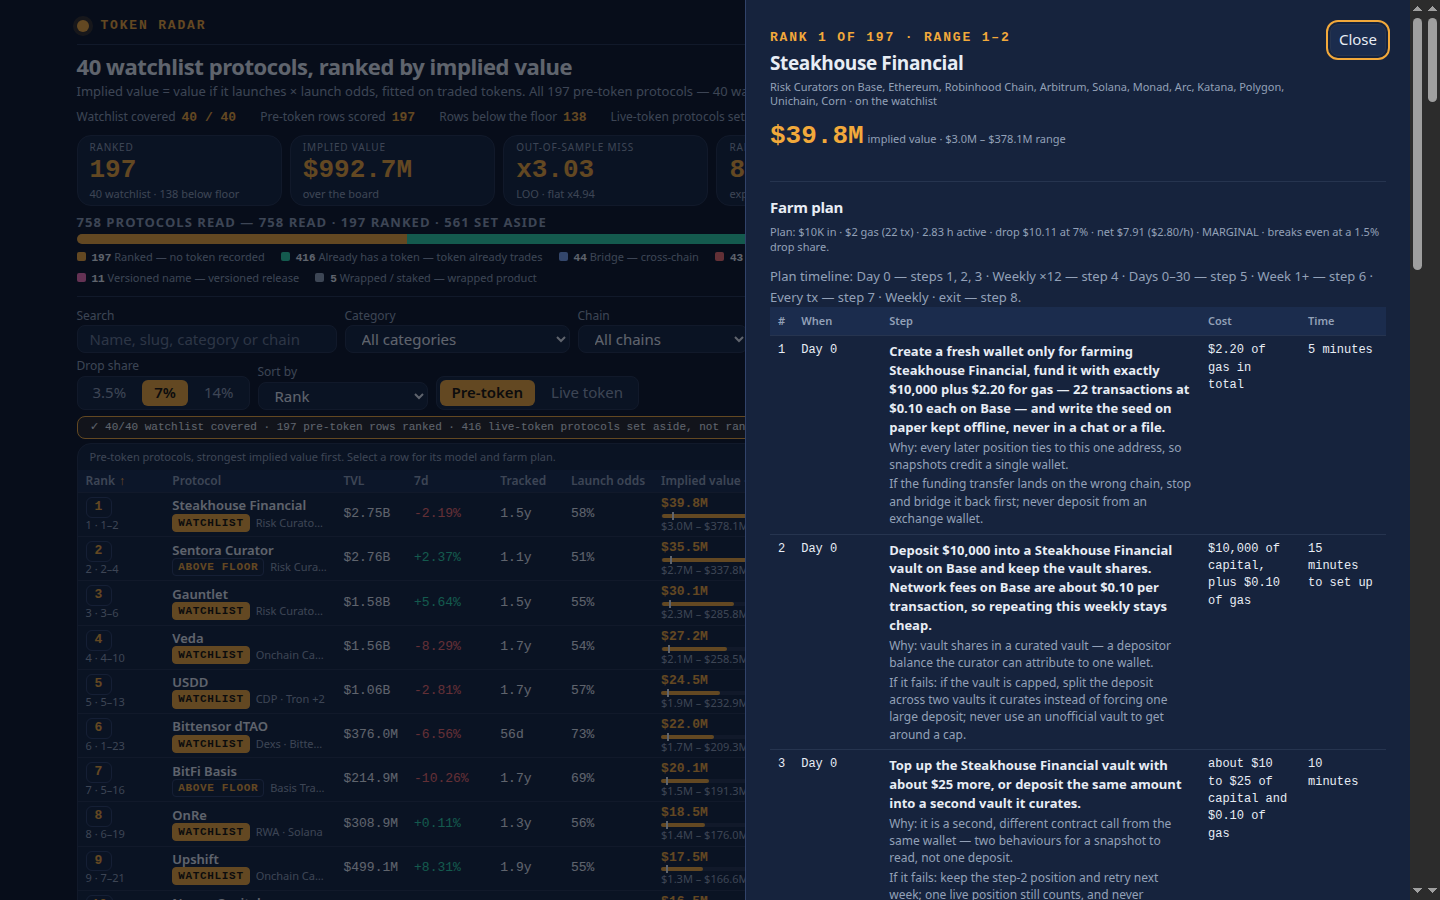
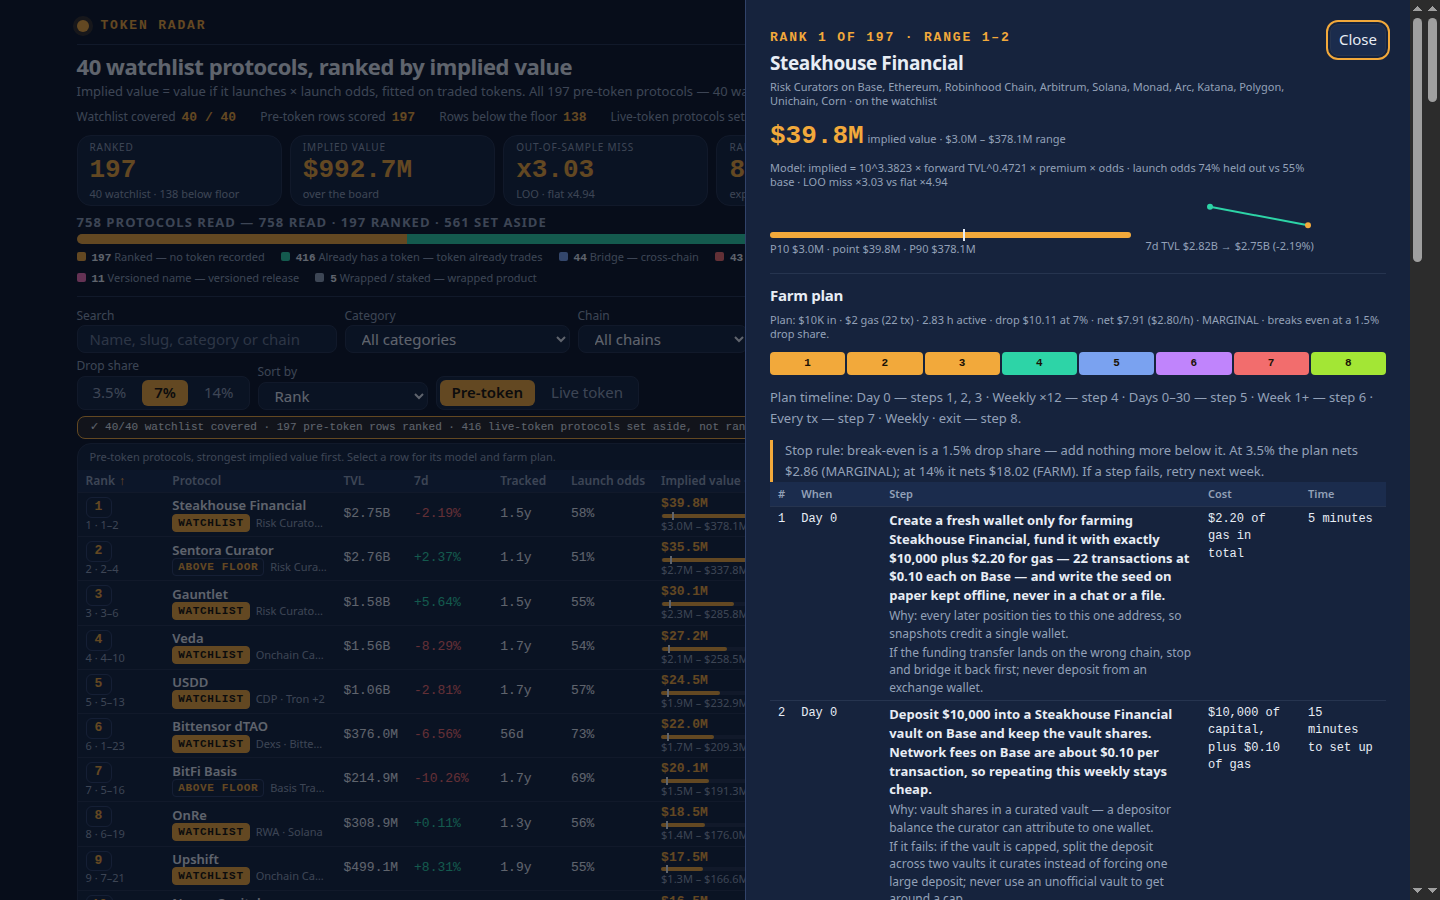
token-radar-01: comps-10 — detail-view farm depth (timeline strip, stop rule, model + P10-P90 bar + 7d spark in shot 2); 198th row verified dead, model unchanged

diff --git a/dashboard/app.js b/dashboard/app.js
@@ -386,6 +386,11 @@ var stepsHtml = '<table class="farm"><thead><tr><th scope="col">#</th><th scope=
 var tl = [];
 (row.farm_steps || []).forEach(function (st, i) { var pp = parseStep(st); if (!pp) return; var w = whenOf(pp.action, row.hold_days || 30); var g = tl[tl.length - 1]; if (g && g[0] === w) g[1].push(i + 1); else tl.push([w, [i + 1]]); });
 var timeline = '<p class="why">Plan timeline: ' + tl.map(function (g) { return g[0] + ' — step' + (g[1].length > 1 ? 's ' : ' ') + g[1].join(', '); }).join(' · ') + '.</p>';
+function tlc(w){if(w==='Weekly · exit')return '#a3e635';if(w.indexOf('Weekly')===0)return '#2dd4a7';if(w.indexOf('Day 0')===0)return '#f2a93b';if(w.indexOf('Days')===0)return '#7aa2f0';if(w==='Week 1+')return '#c084fc';if(w==='Every tx')return '#f26d6d';return '#94a3b8';}
+var strip='<div class="tl" aria-hidden="true">'+(row.farm_steps||[]).map(function(st,i){var pp=parseStep(st);var w=pp?whenOf(pp.action,row.hold_days||30):'Day 0';return '<i style="background:'+tlc(w)+'">'+(i+1)+'</i>';}).join('')+'</div>';
+var n35=netAt(row,row.plan_size_usd||1000,0.035),v35=verdictAt(row,row.plan_size_usd||1000,0.035);
+var n14=netAt(row,row.plan_size_usd||1000,0.14),v14=verdictAt(row,row.plan_size_usd||1000,0.14);
+var stop='<p class="caveat">Stop rule: break-even is a '+(beShare*100).toFixed(1)+'% drop share — add nothing more below it. At 3.5% the plan nets '+fmtNet(n35)+' ('+v35+'); at 14% it nets '+fmtNet(n14)+' ('+v14+'). If a step fails, retry next week.</p>';
 var comps = row.comparables || [];
 var compHtml = comps.length ? '<table class="mini comp"><thead><tr><th scope="col">Token that trades</th><th scope="col">TVL</th><th scope="col">MCAP</th><th scope="col">x TVL</th><th scope="col">Applied here</th></tr></thead><tbody>' +
 comps.map(function (p) { return '<tr><td>' + esc(p.name) + '</td><td class="num">' + esc(fmtUsd(p.tvl_usd)) + '</td><td class="num">' + esc(fmtUsd(p.mcap_usd)) + '</td><td class="num">' + esc(fmtMult(p.multiple)) + '</td><td class="num">' + esc(fmtUsd(p.applied_usd)) + '</td></tr>'; }).join('') + '</tbody></table>'
@@ -408,13 +413,26 @@ var chainRows =
 '<div><span>Category premium</span><b class="num">x ' + esc(fmtMult(c.premium)) + '</b></div>' +
 '<div><span>Value if it launches</span><b class="num">' + esc(fmtUsd(c.val)) + '</b></div>' +
 '<div><span>Launch odds</span><b class="num">x ' + esc(fmtPct100(c.odds)) + '</b></div>';
+var V=DATA.validation||{};
+var mod='';
+if(V.loo&&V.launch_odds&&V.flat_baseline)mod='<p class="sub">Model: implied = 10^'+M.curve_a+' × forward TVL^'+M.curve_b+' × premium × odds · launch odds '+Math.round(V.launch_odds.accuracy_pct)+'% held out vs '+Math.round(V.launch_odds.base_rate_pct)+'% base · LOO miss ×'+V.loo.median_miss.toFixed(2)+' vs flat ×'+V.flat_baseline.median_miss.toFixed(2)+'</p>';
+var lo=row.value_low_usd,hi=row.value_high_usd;
+var lp=function(v){var a=Math.log10(Math.max(1,lo)),b=Math.log10(Math.max(1,hi));return Math.max(0,Math.min(100,(Math.log10(Math.max(1,v))-a)/Math.max(1e-9,b-a)*100));};
+var rng='<div class="rng"><span class="rangebar" aria-hidden="true"><i style="left:0%;width:100%"></i><b style="left:'+lp(row.implied_value_usd).toFixed(1)+'%"></b></span><div class="sub">P10 '+esc(fmtUsd(lo))+' · point '+esc(fmtUsd(row.implied_value_usd))+' · P90 '+esc(fmtUsd(hi))+'</div></div>';
+var chg=row.change_7d,prev=(chg===null||chg===undefined)?null:row.tvl_usd/(1+chg/100),spark='';
+if(prev!==null&&isFinite(prev)&&prev>0){
+var mn=Math.min(prev,row.tvl_usd),mx=Math.max(prev,row.tvl_usd),pd=(mx-mn)*0.2+1;
+var sy=function(v){return (30-(v-(mn-pd))/((mx-mn)+2*pd)*26).toFixed(1);};
+spark='<div class="spark"><svg width="110" height="34" viewBox="0 0 110 34" role="img" aria-label="TVL 7 days ago to now"><polyline points="6,'+sy(prev)+' 104,'+sy(row.tvl_usd)+'" fill="none" stroke="#2dd4a7" stroke-width="2"/><circle cx="6" cy="'+sy(prev)+'" r="3" fill="#2dd4a7"/><circle cx="104" cy="'+sy(row.tvl_usd)+'" r="3" fill="#f2a93b"/></svg><span class="sub">7d TVL '+esc(fmtUsd(prev))+' → '+esc(fmtUsd(row.tvl_usd))+' ('+esc(fmtPct(chg))+')</span></div>';
+}
+var duo='<div class="duo">'+rng+spark+'</div>';
 dialog.innerHTML =
 '<div class="detail-head"><div><span class="brand-name">RANK ' + row.rank + ' OF ' + DATA.board_size + (row.rank_low !== undefined ? ' · RANGE ' + row.rank_low + '–' + row.rank_high : '') + '</span>' +
 '<h2 id="detailTitle">' + esc(row.name) + '</h2>' +
 '<p class="sub">' + esc(row.category || 'Other') + ' on ' + esc(chainsOf(row)) + (isWatch(row) ? ' · on the watchlist' : (isAboveFloor(row) ? ' · above the floor' : ' · below the floor')) + '</p>' +
-'<p style="margin-top:8px"><span style="font-size:26px;color:var(--amber);font-family:var(--font-num);font-weight:600">' + esc(fmtUsd(row.implied_value_usd)) + '</span> <span class="sub">implied value · ' + esc(fmtUsd(row.value_low_usd)) + ' – ' + esc(fmtUsd(row.value_high_usd)) + ' range</span></p></div>' +
+'<p style="margin-top:8px"><span style="font-size:26px;color:var(--amber);font-family:var(--font-num);font-weight:600">' + esc(fmtUsd(row.implied_value_usd)) + '</span> <span class="sub">implied value · ' + esc(fmtUsd(row.value_low_usd)) + ' – ' + esc(fmtUsd(row.value_high_usd)) + ' range</span></p>' + mod + duo + '</div>' +
 '<button class="close" type="button" aria-label="Close details">Close</button></div>' +
-'<section class="detail-section"><h3>Farm plan</h3>' + planSum + timeline + stepsHtml +
+'<section class="detail-section"><h3>Farm plan</h3>' + planSum + strip + timeline + stop + stepsHtml +
 '<div class="arith"><div><span>At risk</span><b>' + esc(fmtUsd(dep)) + '</b></div><div><span>Fees</span><b>' + esc(fmtUsd(row.fees_usd)) + '</b></div><div><span>Your time</span><b>' + (row.time_hours !== undefined ? row.time_hours + ' h' : 'n/a') + '</b></div><div><span>Slice if it launches</span><b>' + esc(fmtNet(slice)) + '</b></div><div><span>Fees / slice</span><b>' + (be !== null ? Math.round(be * 100) + '%' : 'n/a') + '</b></div><div><span>Net per hour</span><b>' + (nph !== null ? esc(fmtNet(nph)) + '/h' : 'n/a') + '</b></div></div>' +
 '<p class="sub" style="margin-top:8px">Slice if launch = value if it launches x drop share x deposit / TVL. Break-even odds = fees / slice. Net per hour = net at the current selection / time.</p></section>' +
 '<section class="detail-section"><h3>How the figure is made</h3><div class="chain">' + chainRows +

diff --git a/dashboard/app.css b/dashboard/app.css
@@ -91,7 +91,7 @@ td:first-child .sub{white-space:nowrap}
 .close{flex:none;min-width:32px;min-height:32px;padding:0 var(--s2);white-space:nowrap;border:1px solid var(--border);border-radius:var(--r1);background:var(--surface2)}
 .detail h2{margin-top:var(--s1)}
 .detail .sub{margin-top:var(--s1)}
-.detail-section{margin-top:var(--s5);padding-top:var(--s4);border-top:1px solid var(--border)}
+.detail-section{margin-top:var(--s4);padding-top:var(--s3);border-top:1px solid var(--border)}
 .detail-section h3{margin-bottom:var(--s2)}
 .check{margin-top:var(--s3);font-size:13px;line-height:1.6}
 .check.ok{color:var(--teal)}
@@ -102,7 +102,7 @@ td:first-child .sub{white-space:nowrap}
 .steps li{padding-left:var(--s1)}
 .steps b{display:block;font-weight:500}
 .farm{width:100%;font-size:13px;line-height:1.45;border-collapse:collapse}
-.farm th,.farm td{padding:6px 8px;border-bottom:1px solid var(--border);vertical-align:top;text-align:left}
+.farm th,.farm td{padding:4px 8px;border-bottom:1px solid var(--border);vertical-align:top;text-align:left}
 .farm thead th{position:static;color:var(--muted);font-size:11px}
 .farm td.num{white-space:normal;font-family:var(--font-num);font-size:12px}
 .farm td:first-child{white-space:nowrap}
@@ -170,6 +170,14 @@ td:first-child .sub{white-space:nowrap}
 .rangebar{width:96px;height:4px;border-radius:3px;background:var(--border);position:relative;overflow:visible}
 .rangebar i{position:absolute;top:0;bottom:0;background:var(--amber);border-radius:3px}
 .rangebar b{position:absolute;top:-2px;width:2px;height:8px;background:var(--ink)}
+.tl{display:flex;gap:2px;margin:10px 0 0}
+.tl i{flex:1;text-align:center;font-style:normal;font-family:var(--font-num);font-size:11px;font-weight:600;color:var(--amber-ink);border-radius:4px;padding:3px 0}
+.duo{display:flex;gap:14px;align-items:flex-end;margin-top:10px}
+.duo .rng{flex:1;min-width:0}
+.duo .rangebar{display:block;width:100%;height:6px}
+.duo .rangebar b{top:-3px;height:12px}
+.spark{flex:none;text-align:right}
+.spark svg{display:block;margin-left:auto}
 .detail{width:min(680px,96vw)}
 .vt{width:100%;font-size:13px;border-collapse:collapse}
 .vt th,.vt td{padding:var(--s2);border:1px solid var(--border);text-align:right}

diff --git a/README.md b/README.md
@@ -6,9 +6,9 @@
 
 A token launch radar: it reads a sealed DefiLlama snapshot of 758 protocols and writes a web dashboard that ranks the 197 pre-token, standalone protocols by what their launch would be worth, each with a costed farm plan and a FARM / MARGINAL / SKIP verdict.
 
-## The model ("comps-9" — comps-8 + bigger validation numbers in shot 1: 26px KPI values, fitted size-curve formula box leading the validation panel, 21px validation tiles)
+## The model ("comps-10" — comps-9 + detail-view farm depth in shot 2: visual 8-step timeline strip, break-even stop rule, model line + log-scale P10–P90 bar + 7-day TVL spark in the detail head; 198th-row angle verified dead, board stays 197)
 
-comps-9 keeps the comps-8 model and layout unchanged and makes the validation figures as prominent in the screenshots as rank #1's are in its: the six KPI numbers (197, $992.7M, ×3.03, 80%, 74%, 59) are now 26px, the validation panel opens with the fitted size curve "10^3.3823 × forward TVL^0.4721 — fitted on 119 traded tokens", and its six holdout tiles are 21px. The filled amber coverage ribbon ("40/40 watchlist covered · 197 pre-token rows ranked · 416 live-token protocols set aside, not ranked"), filled WATCHLIST badges, and one-line "Plan timeline" in each detail-view farm plan are kept from comps-8. See MODEL_NOTES.md.
+comps-10 keeps the comps-9 model and layout unchanged and makes the farm plan visible at a glance in the detail view: the plan now opens with a colour-coded timeline strip (one numbered cell per step) above the "Plan timeline" legend, a stop rule derived from the row's own verdict table (break-even drop share, net at 3.5% and 14%), and the detail head repeats the model ("implied = 10^3.3823 × forward TVL^0.4721 × premium × odds · launch odds 74% held out vs 55% base · LOO miss ×3.03 vs flat ×4.94") beside a log-scale P10–P90 range bar and a 7-day TVL spark (TVL 7 days ago → today, from the snapshot's own 7-day change). The 198th row was checked and does not exist under our own rules: all 145 excluded pre-token protocols fail at least one rule (37 bridge incl. circle-gateway, 29 liquid-staking, 37 CEX, 11 versioned, 5 wrapped/staked), so the board stays 197 rows. See MODEL_NOTES.md.
 
 Implied value follows from the snapshot's own figures — no hardcoded names:
 
